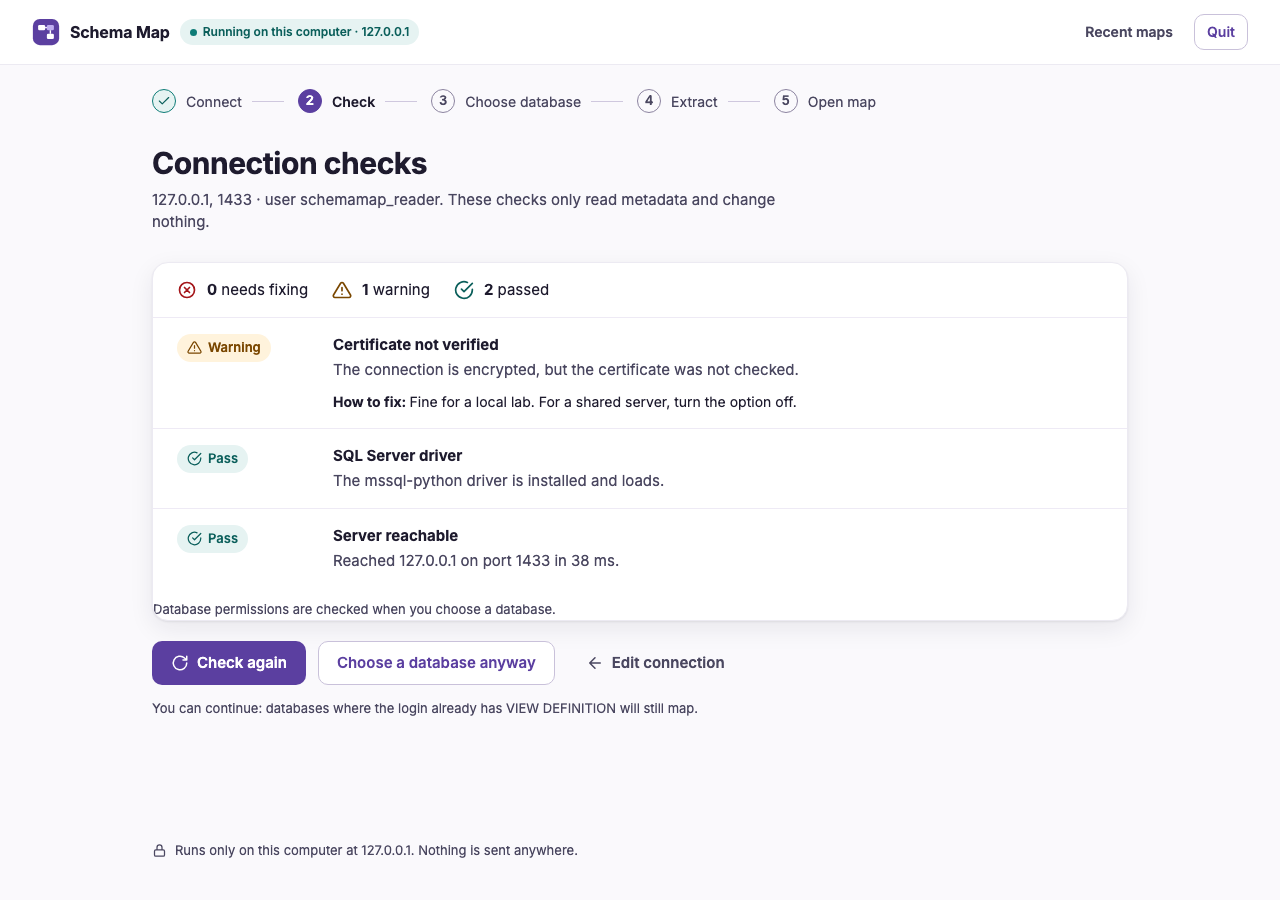
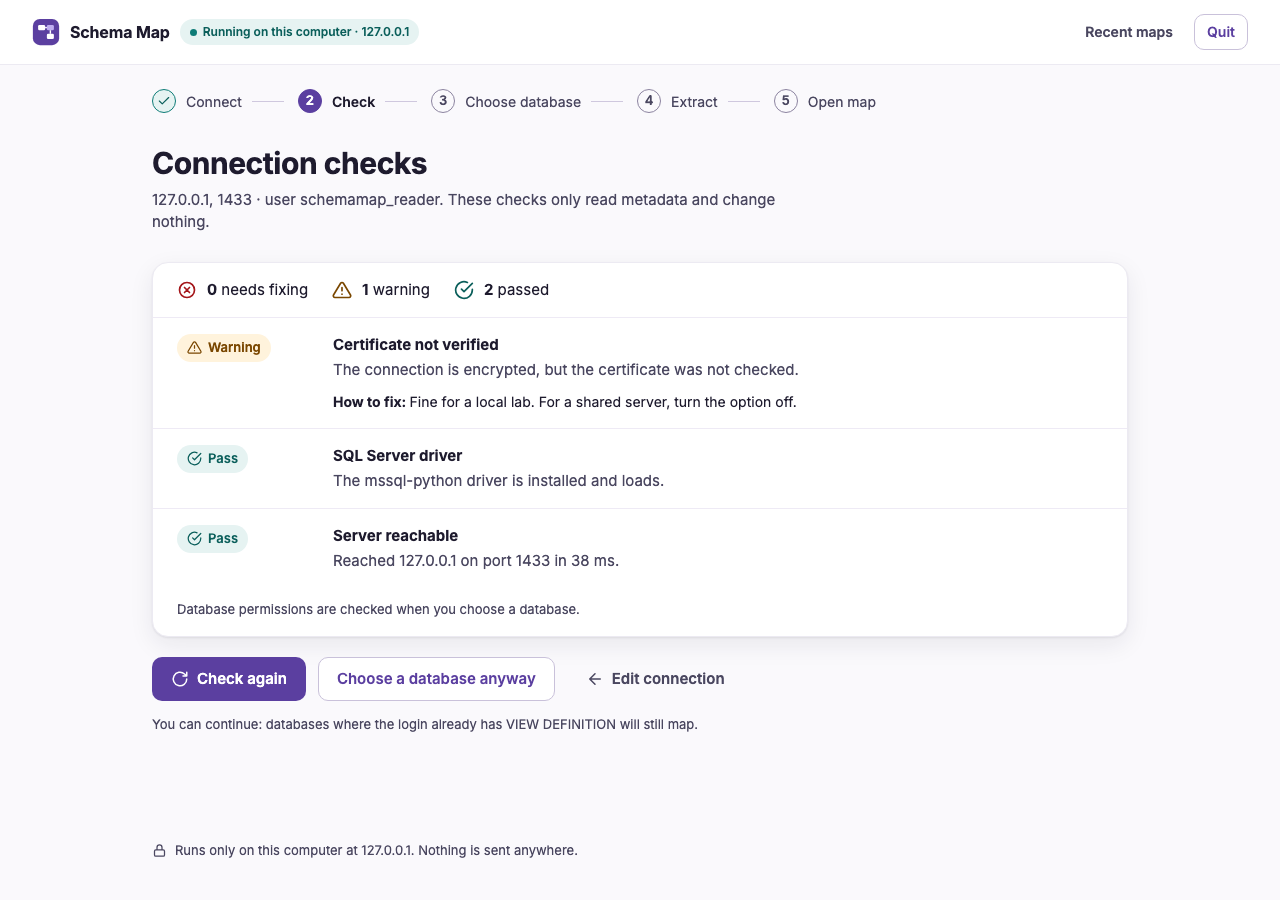
fix(ui): stopped pill on Quit, padded Check note, map actions apart on phones
The Quit screen said "Running on this computer"; the Check card's
permissions note sat on the card edge; at 375 px the Recent maps actions
touched because `.lc-maps td { display: block }` beat their flex layout.
U.7 findings U7-3 and U7-4.

Changed region(s): [[0.0938, 0.6533, 0.5625, 0.8089]]

diff --git a/viewer/e2e/launcher-extract.spec.ts b/viewer/e2e/launcher-extract.spec.ts
@@ -391,6 +391,9 @@ test("Quit stops the server and says the tab can be closed", async ({ page }) =>
   await expect(page.getByRole("heading", { name: "Schema Map has stopped" })).toBeVisible();
   await expect(page.getByText(/You can close this tab/)).toBeVisible();
   await expect(page.getByRole("button", { name: "Quit" })).toHaveCount(0);
+  // U.7: the header no longer claims the stopped server is running.
+  await expect(page.locator(".lc-pill")).toHaveText("Stopped");
+  await expect(page.getByText(/Running on this computer|This computer only/)).toHaveCount(0);
   expect(world.quit).toBe(1);
   expect(await page.evaluate(() => document.body.innerHTML)).not.toContain(PASSWORD);
   await audit(page, "quit", true);
@@ -477,4 +480,23 @@ test("Re-run with no matching connection says how to make it a password only", a
   await expect(page.getByRole("heading", { name: "Connect to SQL Server" })).toBeFocused();
   await expect(page.getByLabel("Server", { exact: true })).toHaveValue("127.0.0.1");
   expect(world.posted).toHaveLength(0);
+});
+
+test("on a phone the Open, Re-run and Delete buttons of a map keep their gap", async ({ page }) => {
+  // U.7: `.lc-maps td { display: block }` beat the actions cell's flex layout, so the buttons
+  // touched at 375 px.
+  await page.setViewportSize({ width: 375, height: 800 });
+  const world = newWorld();
+  await stub(page, world);
+  await page.goto(current().url);
+  await page.getByRole("button", { name: "Recent maps" }).click();
+  const open = page.getByRole("link", {
+    name: "Open the map of AdventureWorks2022 (opens in a new tab)",
+  });
+  const rerun = page.getByRole("button", { name: "Re-run AdventureWorks2022" });
+  const del = page.getByRole("button", { name: "Delete the map of AdventureWorks2022" });
+  const [a, b, c] = await Promise.all([open.boundingBox(), rerun.boundingBox(), del.boundingBox()]);
+  if (a === null || b === null || c === null) throw new Error("a map action is not on screen");
+  expect(b.x - (a.x + a.width)).toBeGreaterThanOrEqual(8);
+  expect(c.x - (b.x + b.width)).toBeGreaterThanOrEqual(8);
 });

diff --git a/viewer/src/launcher/Chrome.tsx b/viewer/src/launcher/Chrome.tsx
@@ -96,8 +96,17 @@ export interface HeaderNav {
   readonly recentCurrent: boolean;
 }
 
-/** The brand line; with `nav`, the Recent maps and Quit buttons every launcher screen carries. */
-export function Header({ nav }: { readonly nav?: HeaderNav }) {
+/**
+ * The brand line; with `nav`, the Recent maps and Quit buttons every launcher screen carries.
+ * `stopped` (the Quit screen) turns the "running" pill into "Stopped".
+ */
+export function Header({
+  nav,
+  stopped = false,
+}: {
+  readonly nav?: HeaderNav;
+  readonly stopped?: boolean;
+}) {
   return (
     <>
       <SkipLink />
@@ -105,11 +114,18 @@ export function Header({ nav }: { readonly nav?: HeaderNav }) {
         <div className="lc-brand">
           <Mark />
           <span className="lc-brand__name">Schema Map</span>
-          <span className="lc-pill">
-            <span className="lc-pill__dot" aria-hidden="true" />
-            <span className="lc-pill__long">Running on this computer · 127.0.0.1</span>
-            <span className="lc-pill__short">This computer only</span>
-          </span>
+          {stopped ? (
+            <span className="lc-pill lc-pill--stopped">
+              <span className="lc-pill__dot" aria-hidden="true" />
+              Stopped
+            </span>
+          ) : (
+            <span className="lc-pill">
+              <span className="lc-pill__dot" aria-hidden="true" />
+              <span className="lc-pill__long">Running on this computer · 127.0.0.1</span>
+              <span className="lc-pill__short">This computer only</span>
+            </span>
+          )}
         </div>
         {nav === undefined ? null : (
           <nav aria-label="Launcher" className="lc-topnav">

diff --git a/viewer/e2e/launcher-screens.spec.ts b/viewer/e2e/launcher-screens.spec.ts
@@ -252,6 +252,34 @@ test("Check passes axe at both widths", async ({ page }) => {
   await audit(page, "check", true);
 });
 
+for (const width of [1280, 375]) {
+  test(`the database-permissions note sits inside the Check card's padding at ${String(width)} px`, async ({
+    page,
+  }) => {
+    // U.7: the note was flush with the card's left edge.
+    await page.setViewportSize({ width, height: 900 });
+    await open(page);
+    await toCheck(page);
+    const card = page.locator(".lc-card--results");
+    const note = card.locator(".lc-hint--note");
+    const item = card.locator(".lc-check-item").first();
+    const [cardBox, noteBox, itemBox] = await Promise.all([
+      card.boundingBox(),
+      note.boundingBox(),
+      item.boundingBox(),
+    ]);
+    if (cardBox === null || noteBox === null || itemBox === null) throw new Error("not on screen");
+    const textStart = await note.evaluate((el) => {
+      const range = document.createRange();
+      range.selectNodeContents(el);
+      return range.getBoundingClientRect().left;
+    });
+    const itemPadding = await item.evaluate((el) => parseFloat(getComputedStyle(el).paddingLeft));
+    expect(textStart - cardBox.x).toBeGreaterThanOrEqual(itemPadding);
+    expect(cardBox.y + cardBox.height - (noteBox.y + noteBox.height)).toBeGreaterThanOrEqual(0);
+  });
+}
+
 test("Pick, its search states and its system-database toggle pass axe", async ({ page }) => {
   await toPick(page);
   await expect(page.getByRole("radio", { name: /AdventureWorks2022/ })).toBeVisible();

diff --git a/viewer/src/launcher/launcher.css b/viewer/src/launcher/launcher.css
@@ -132,6 +132,15 @@ p {
   display: none;
 }
 
+.lc-pill--stopped {
+  background: #eeeaf5;
+  color: var(--sm-muted);
+}
+
+.lc-pill--stopped .lc-pill__dot {
+  background: currentColor;
+}
+
 .lc-steps {
   width: 100%;
   max-width: 1040px;
@@ -424,6 +433,12 @@ p {
 
 .lc-hint--note {
   margin: 12px 0 0;
+}
+
+/* Inside the results card the note lines up with the check items (U.7). */
+.lc-card--results .lc-hint--note {
+  margin: 0;
+  padding: 12px 24px 16px;
 }
 
 .lc-hint--page {
@@ -1109,6 +1124,10 @@ a.lc-btn {
     padding: 16px;
   }
 
+  .lc-card--results .lc-hint--note {
+    padding: 12px 16px 16px;
+  }
+
   .lc-summary-row {
     padding: 16px;
   }
@@ -1451,9 +1470,15 @@ a.lc-btn {
     color: var(--sm-muted);
   }
 
-  .lc-maps__actions {
+  /* Beats `.lc-maps td { display: block }`, which dropped the gap between the buttons (U.7). */
+  .lc-maps td.lc-maps__actions {
+    display: flex;
     justify-content: flex-start;
     margin-top: 10px;
+  }
+
+  .lc-maps tbody tr:first-child {
+    border-top: 0;
   }
 
   .lc-maps__confirm {

diff --git a/viewer/src/launcher/App.tsx b/viewer/src/launcher/App.tsx
@@ -376,7 +376,7 @@ export function App() {
     <>
       <Header
         {...(screen === "quit"
-          ? {}
+          ? { stopped: true }
           : {
               nav: {
                 onRecent: () => {
